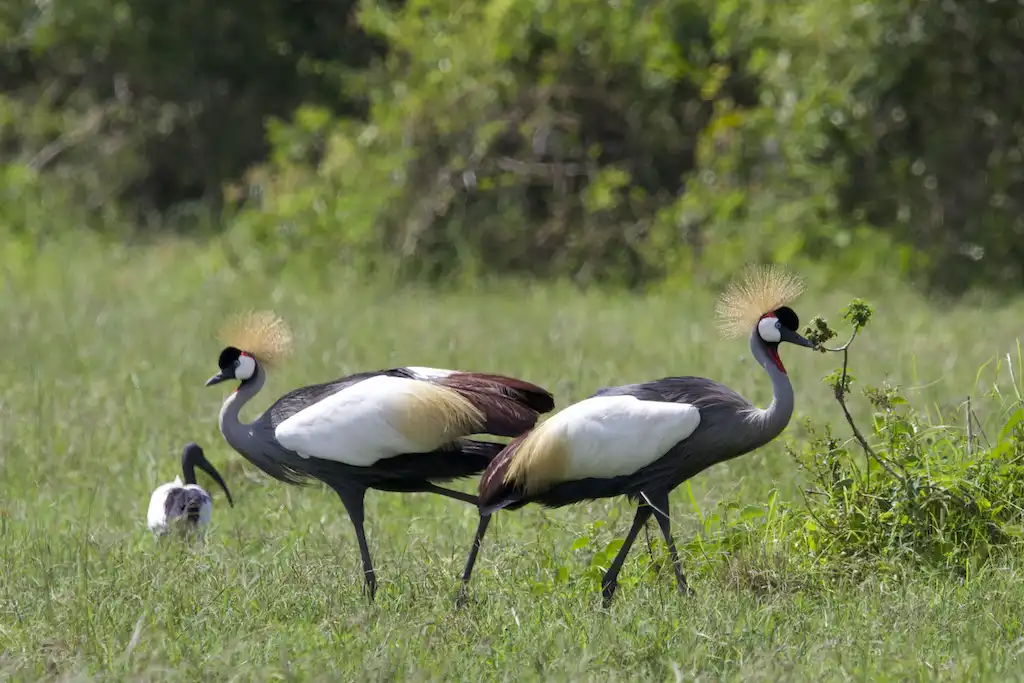
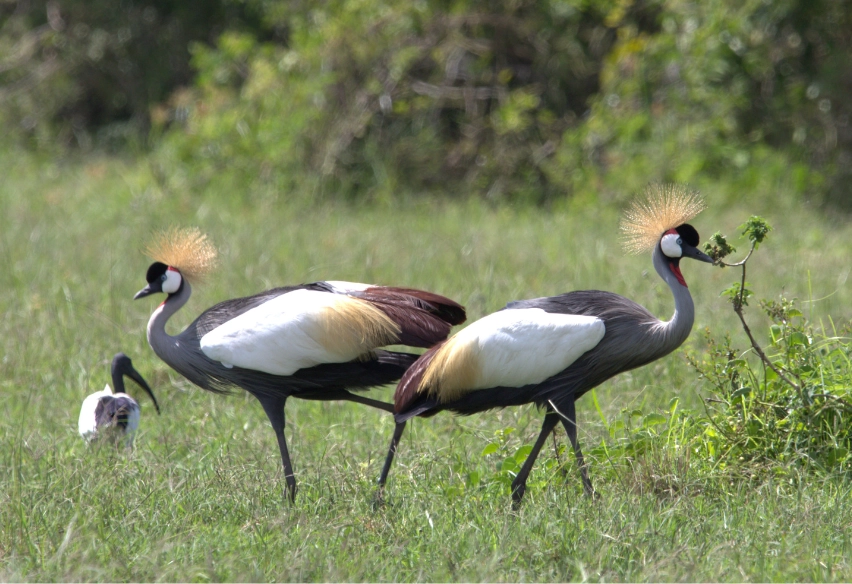
#1101 featured - update image

diff --git a/apps/website/src/landing/featured/data/carbon-transparency.ts b/apps/website/src/landing/featured/data/carbon-transparency.ts
@@ -3,6 +3,7 @@
 import carbonFeaturedImg from '@/_assets/featured-work/carbon-transparency/1.webp'
 import carbonGal1Img from '@/_assets/featured-work/carbon-transparency/2.webp'
 import carbonGal2Img from '@/_assets/featured-work/carbon-transparency/3.webp'
+import carbonImpactImg from '@/_assets/featured-work/carbon-transparency/4.webp'
 import { type ProjectDetail } from './types'
 
 export const carbonTransparency: ProjectDetail = {
@@ -56,7 +57,7 @@ export const carbonTransparency: ProjectDetail = {
       text: 'Learn more',
       link: 'https://blog.aspiration.com/aspiration-partners-with-trees-for-the-future/#:~:text=Aspiration%2C%20a%20high%2Dimpact%20climate,practices%20across%20sub%2DSaharan%20Africa'
     },
-    image: carbonFeaturedImg,
+    image: carbonImpactImg,
     paragraphs: [
       `TREES has an impressive track record since its establishment in 1989, having successfully planted over 300 million trees in collaboration with farming communities worldwide. At the core of their approach lies the innovative "Forest Garden Approach," which empowers farmers to transform their land by incorporating thousands of fast-growing, ecologically appropriate trees alongside dozens of other crops. This strategy not only presents new economic possibilities for the farmers but also benefits their communities significantly. Specifically, in the Lake Victoria Watershed project, each Forest Garden will comprise an average of 5,800 trees per hectare, culminating in an astounding total of 4.13 million metric tonnes of CO2 removal from the atmosphere over a span of 20 years.
       Furthermore, the integration of bioacoustics monitoring capabilities adds an extra layer of scalability and understanding to the impact of the Forest Garden Approach on native fauna. This innovation also enhances transparency for carbon project verification, ensuring the credibility and effectiveness of the initiative. With this comprehensive and conscientious approach, Aspiration's investment in carbon projects through TREES promises to foster both ecological restoration and sustainable development in the face of climate change.

diff --git a/apps/website/src/landing/featured/data/endangered-species.ts b/apps/website/src/landing/featured/data/endangered-species.ts
@@ -1,9 +1,9 @@
 /* content from https://docs.google.com/document/d/1eEvGt_zqVnyPoKGPcYuV4gWaazpGCpciBjePsHB_MA4/edit */
 
-import endangeredGal1Img from '@/_assets/featured-work/endangered-species/baby-mangrove-finches.webp'
-import endangeredImpactImg from '@/_assets/featured-work/endangered-species/bjarn-bronsveld.webp'
-import endangeredGal2Img from '@/_assets/featured-work/endangered-species/mangrove-finch.webp'
-import endangeredFeaturedImg from '@/_assets/featured-work/endangered-species/woodpecker-finch.webp'
+import endangeredFeaturedImg from '@/_assets/featured-work/endangered-species/1.webp'
+import endangeredGal1Img from '@/_assets/featured-work/endangered-species/2.webp'
+import endangeredGal2Img from '@/_assets/featured-work/endangered-species/3.webp'
+import endangeredImpactImg from '@/_assets/featured-work/endangered-species/4.webp'
 import { type ProjectDetail } from './types'
 
 export const endangeredSpecies: ProjectDetail = {

diff --git a/apps/website/src/landing/featured/data/index.ts b/apps/website/src/landing/featured/data/index.ts
@@ -1,7 +1,7 @@
+import supplyChainFeaturedImg from '@/_assets/featured-work/sustainable-supply-chains/1.webp'
 import supplyChainGal1Img from '@/_assets/featured-work/sustainable-supply-chains/2.webp'
 import supplyChainGal2Img from '@/_assets/featured-work/sustainable-supply-chains/3.webp'
 import supplyChainImpactImg from '@/_assets/featured-work/sustainable-supply-chains/4.webp'
-import supplyChainFeaturedImg from '@/_assets/featured-work/sustainable-supply-chains/5.webp'
 import { bioBaseline } from './biodiversity-baselines'
 import { carbonTransparency } from './carbon-transparency'
 import { climateChangeImpact } from './climate-change-impact'
